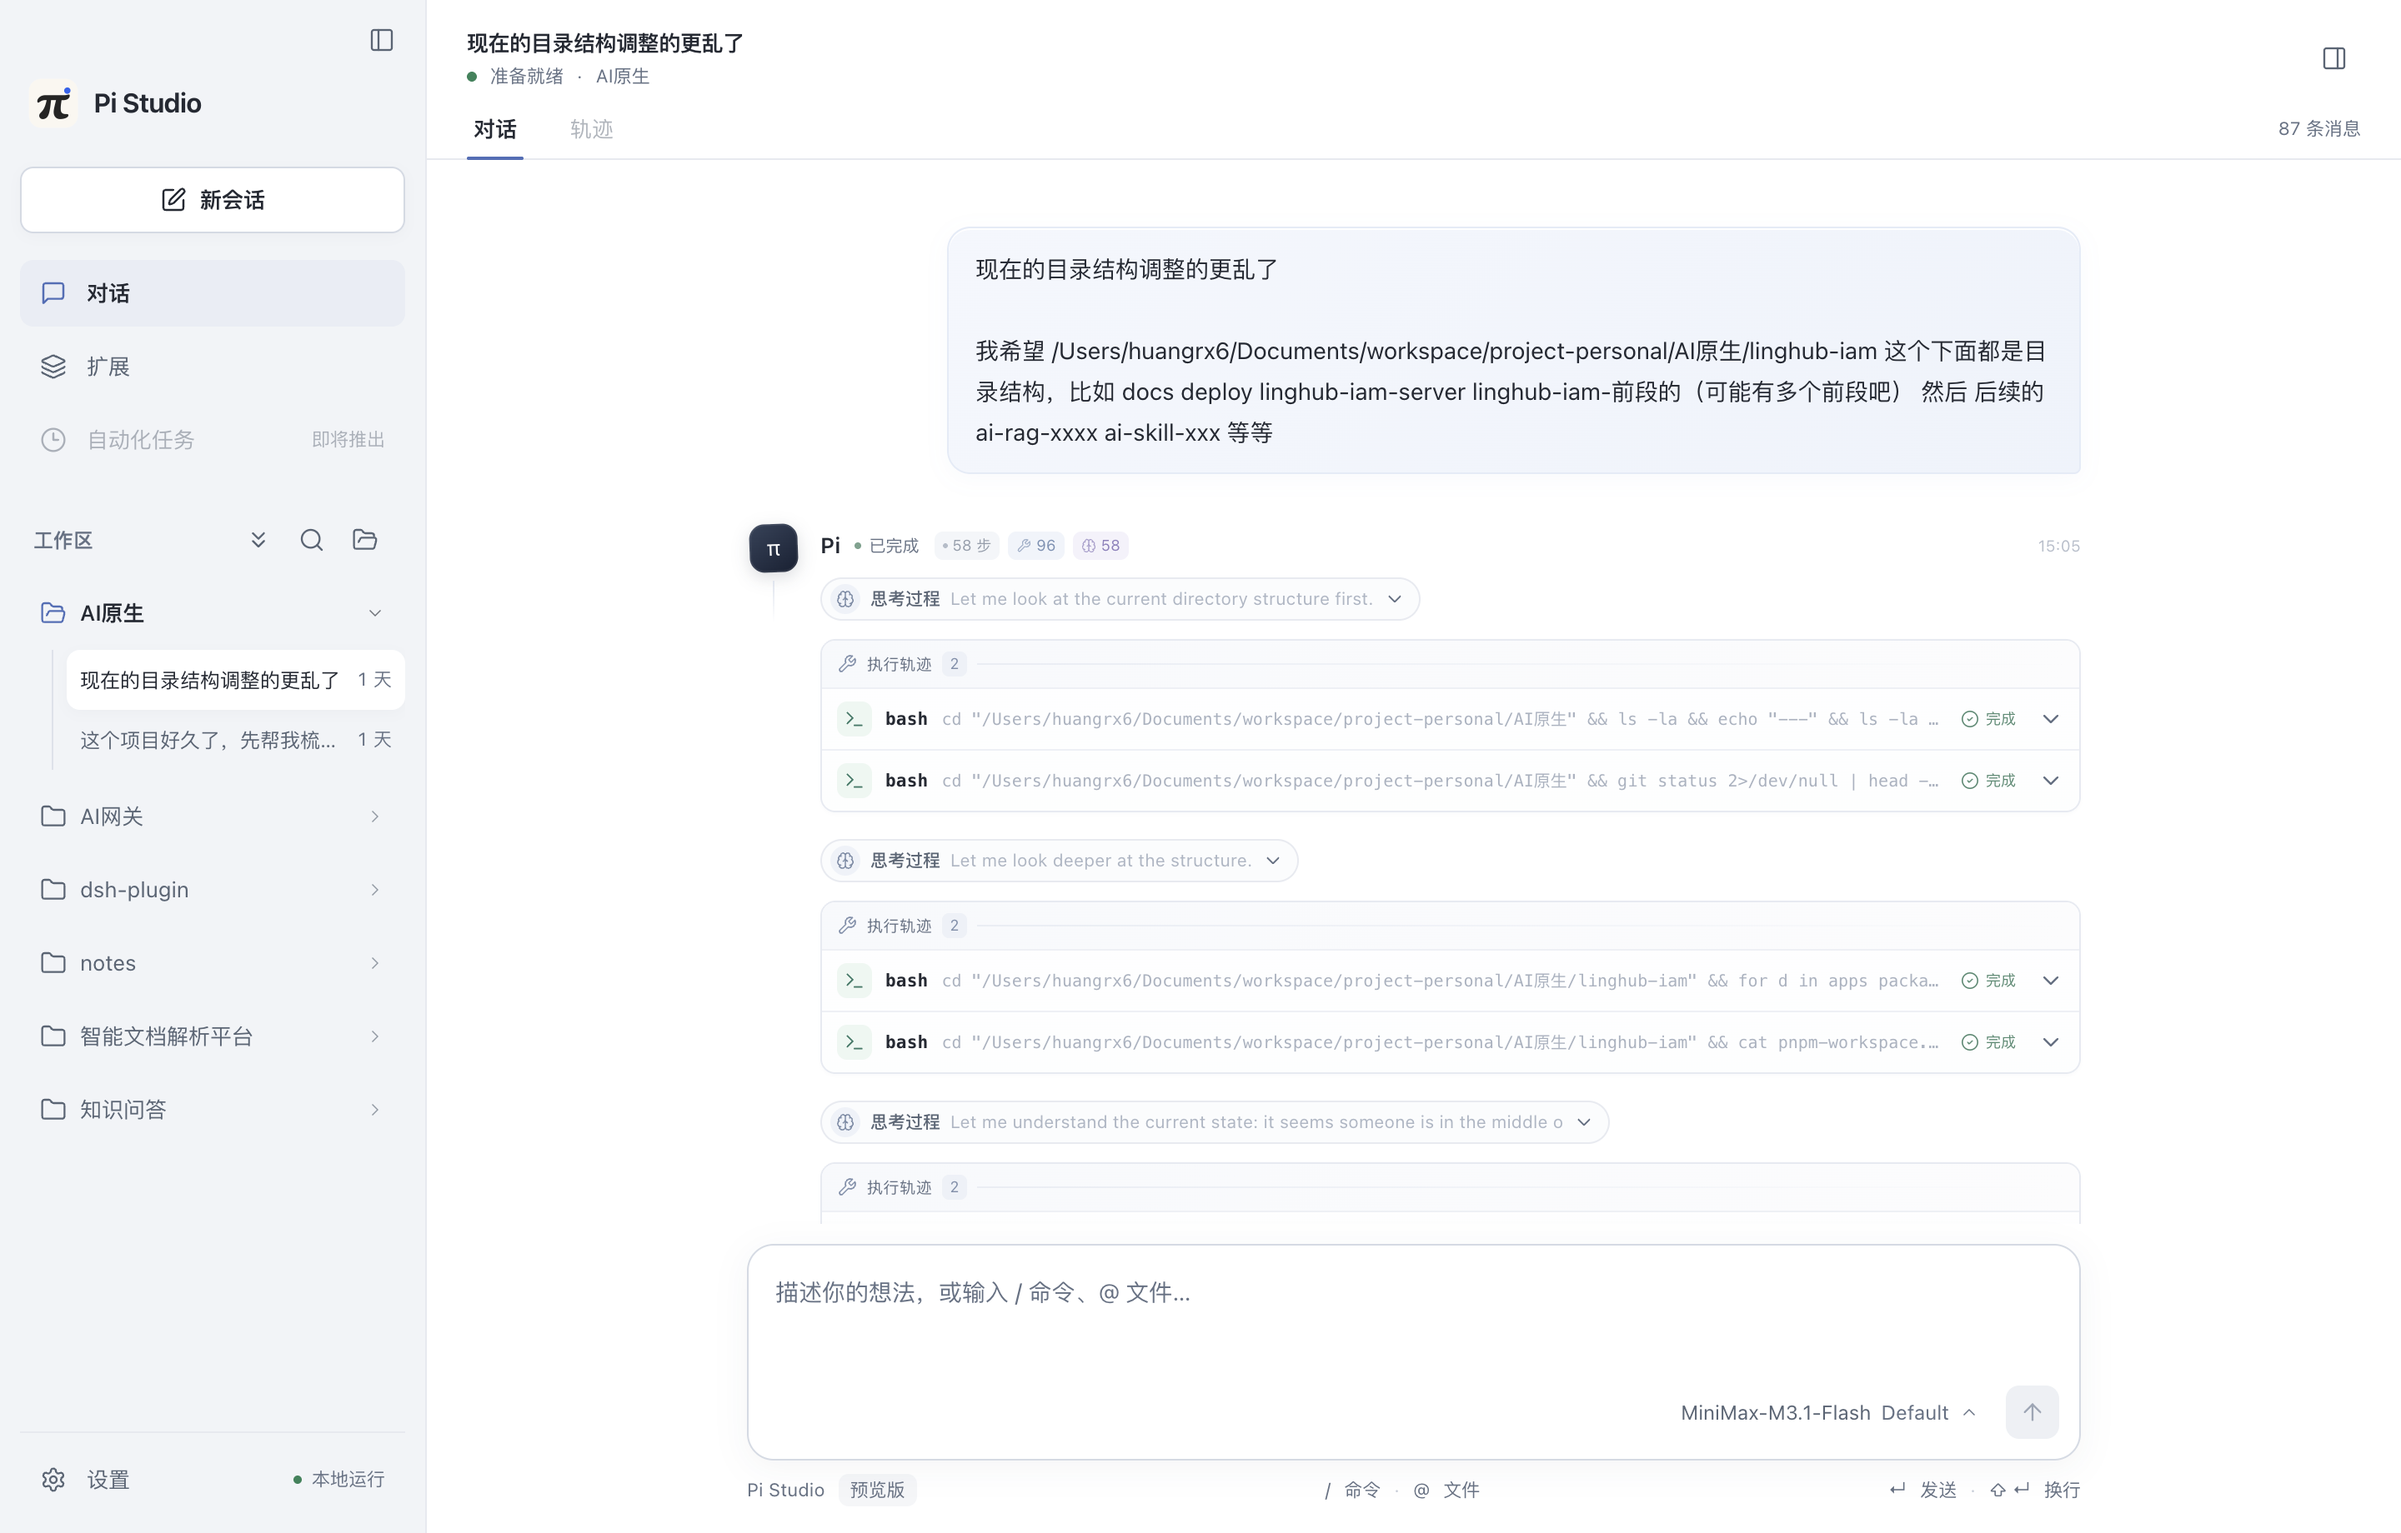
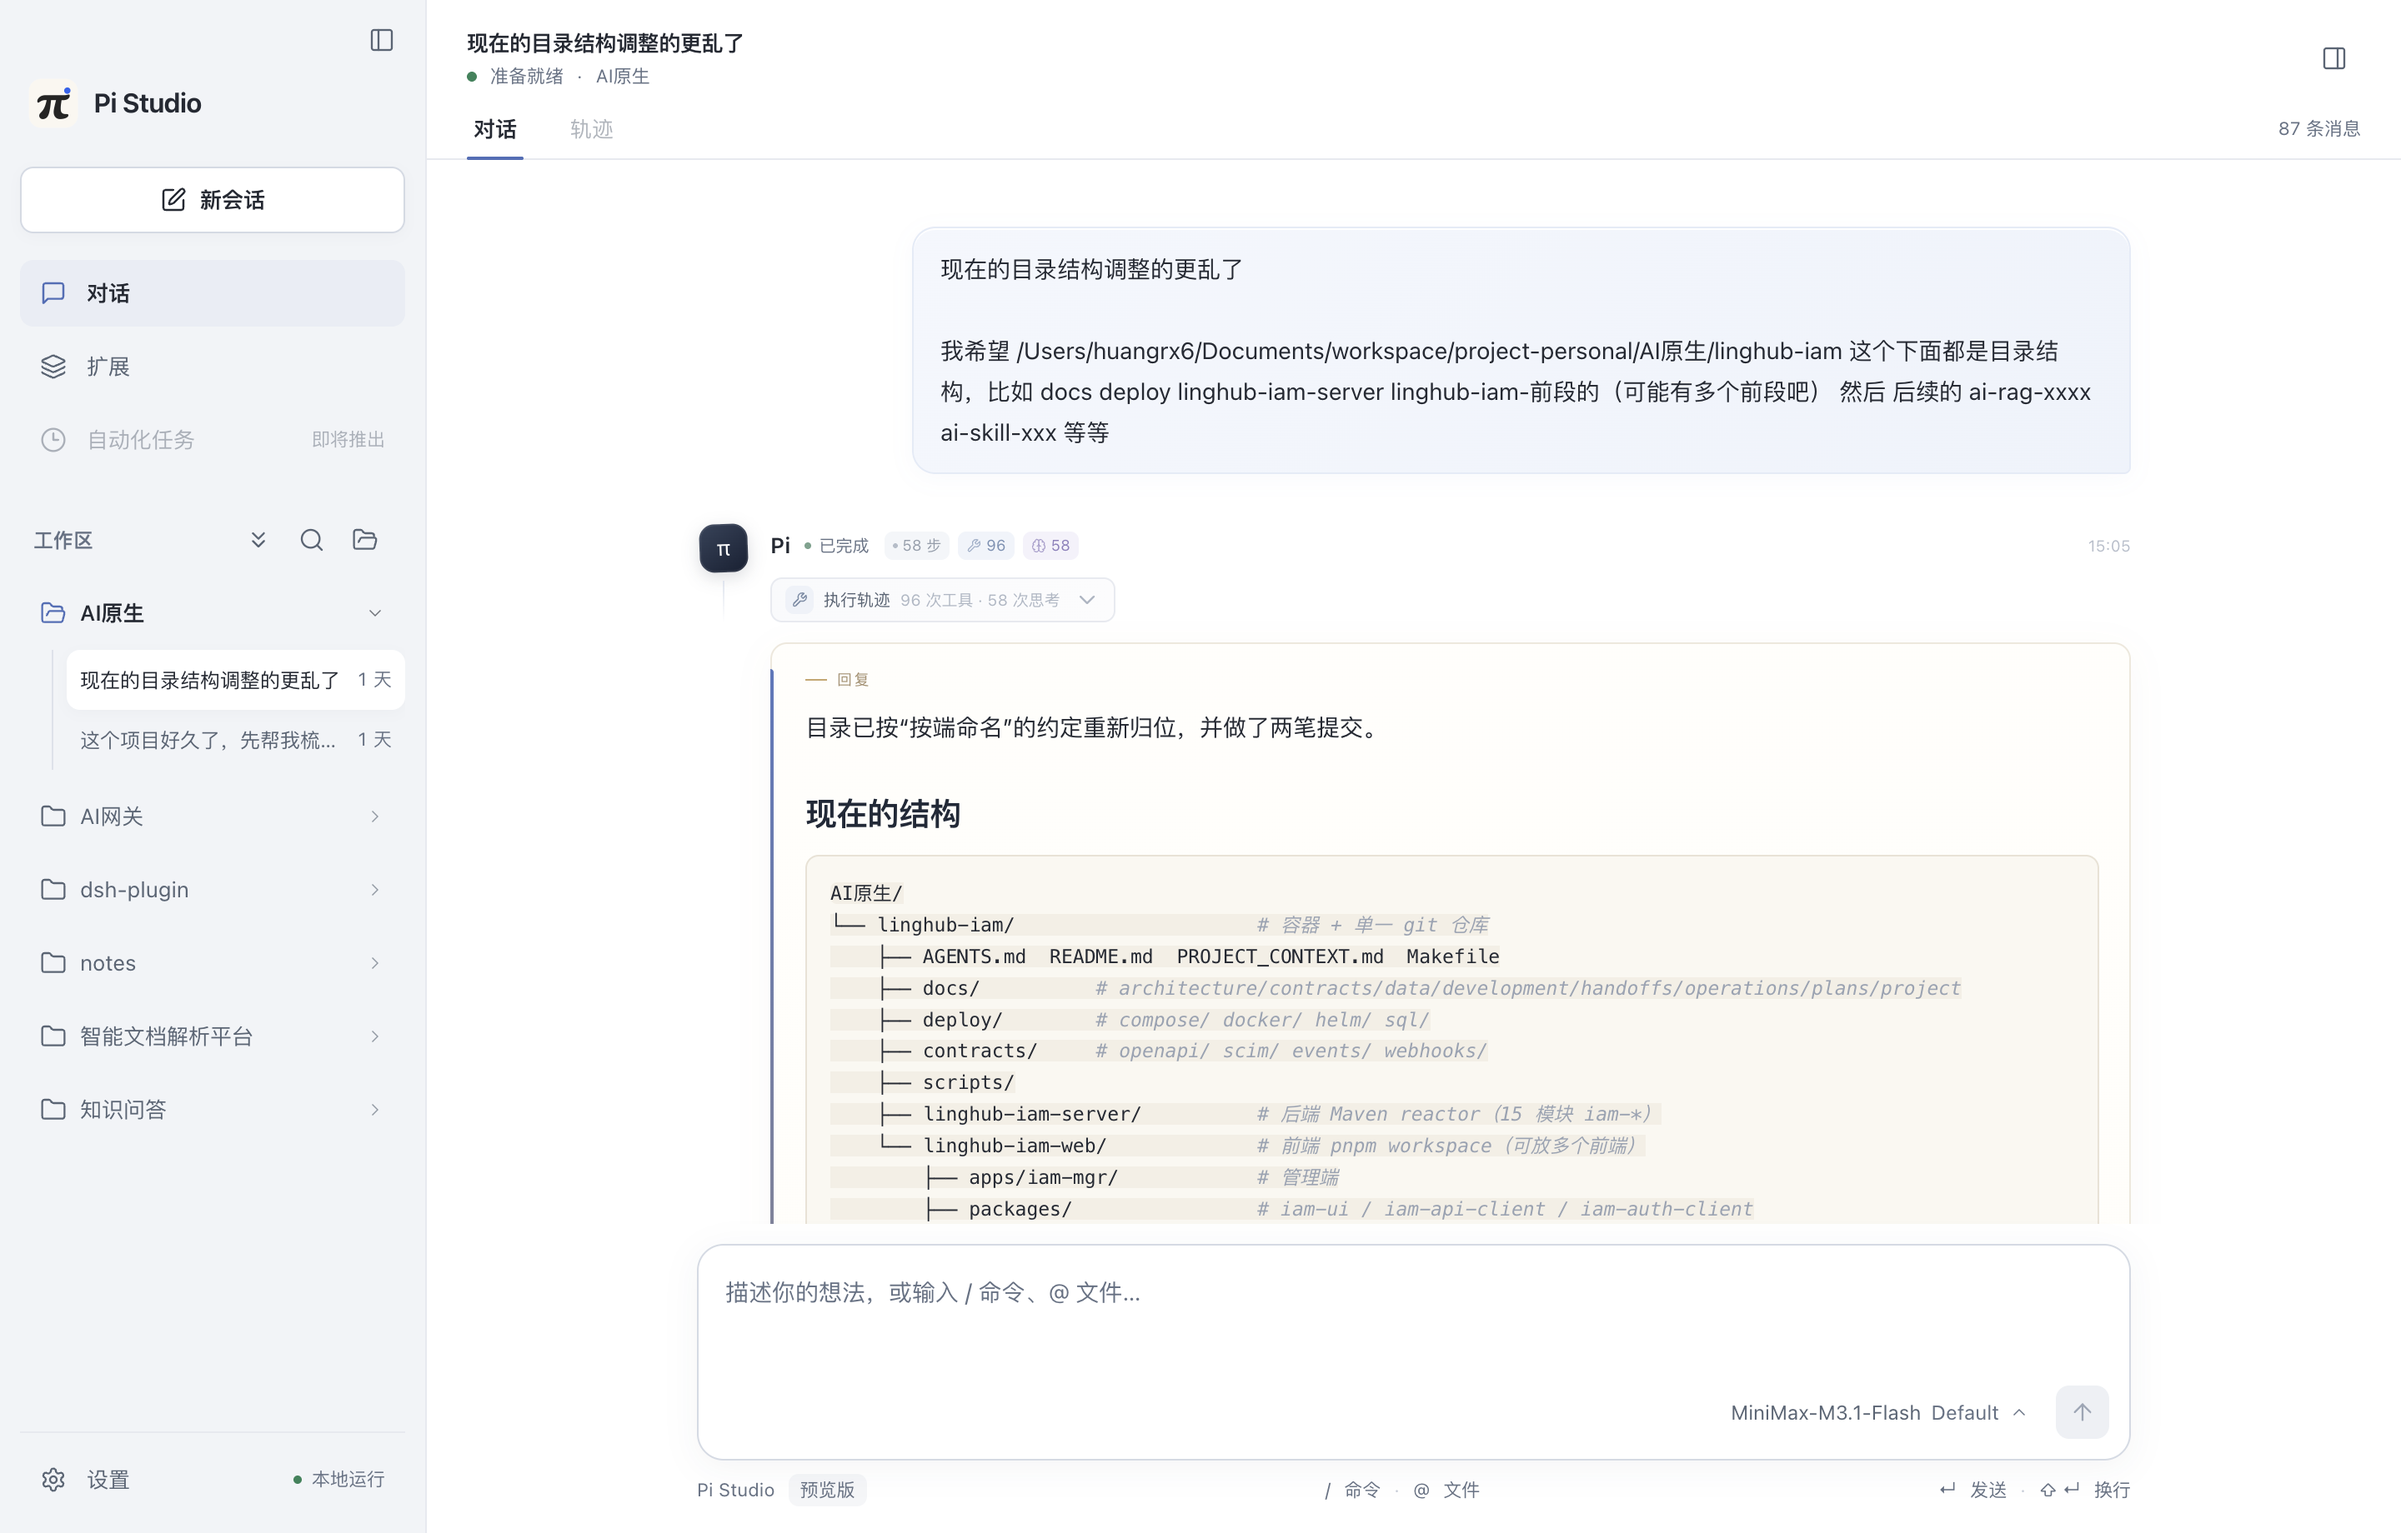
feat(chat): 将运行过程折叠为轨迹与回复卡片

diff --git a/web/src/components/ChatMessage.tsx b/web/src/components/ChatMessage.tsx
@@ -1,3 +1,4 @@
+import { useEffect, useState } from 'react';
 import { Brain, ChevronDown, CircleCheck, CircleX, FileText, LoaderCircle, Pencil, Search, Terminal, Wrench } from 'lucide-react';
 import type { ChatMessage, ContentBlock, ToolCallBlock } from '../chat-types';
 import { Markdown } from './Markdown';
@@ -58,13 +59,6 @@ function ToolCall({ call, result, busy }: { call: ToolCallBlock; result?: ChatMe
   </details>;
 }
 
-function ToolCluster({ calls, toolResults, busy }: { calls: ToolCallBlock[]; toolResults: Map<string, ChatMessage>; busy: boolean }) {
-  return <div className={`tool-cluster ${calls.length === 1 ? 'is-single' : ''}`}>
-    {calls.length > 1 && <div className="tool-cluster-head"><span className="tool-cluster-symbol"><Wrench /></span><span>执行轨迹</span><span className="tool-cluster-count">{calls.length}</span><span className="tool-cluster-line" /></div>}
-    <div className="tool-cluster-body">{calls.map((call) => <ToolCall key={call.id} call={call} result={toolResults.get(call.id)} busy={busy} />)}</div>
-  </div>;
-}
-
 function Thinking({ block }: { block: Extract<ContentBlock, { type: 'thinking' }> }) {
   const preview = block.redacted ? '已隐藏' : block.thinking.replace(/\s+/g, ' ').trim().slice(0, 72);
   return <details className="thinking-block">
@@ -78,31 +72,8 @@ function Thinking({ block }: { block: Extract<ContentBlock, { type: 'thinking' }
   </details>;
 }
 
-function AssistantStep({ message, toolResults, busy }: { message: ChatMessage; toolResults: Map<string, ChatMessage>; busy: boolean }) {
-  const nodes = [];
-  for (let index = 0; index < message.content.length; index += 1) {
-    const block = message.content[index];
-    if (block.type === 'toolCall') {
-      const calls = [block];
-      while (index + 1 < message.content.length && message.content[index + 1].type === 'toolCall') {
-        index += 1;
-        calls.push(message.content[index] as ToolCallBlock);
-      }
-      nodes.push(<ToolCluster key={`tools-${block.id || index}`} calls={calls} toolResults={toolResults} busy={busy} />);
-    } else if (block.type === 'thinking') {
-      nodes.push(<Thinking block={block} key={`thinking-${index}`} />);
-    } else if (block.type === 'text' && block.text) {
-      nodes.push(<Markdown key={`text-${index}`}>{block.text}</Markdown>);
-    } else if (block.type === 'image') {
-      nodes.push(<img className="message-image" key={`image-${index}`} src={`data:${block.mimeType};base64,${block.data}`} alt="" />);
-    }
-  }
-  return <div className="assistant-step">
-    {nodes}
-    {message.streaming && <span className="caret" />}
-    {message.errorMessage && <div className="message-error">{message.errorMessage}</div>}
-  </div>;
-}
+type FlatBlock = { block: ContentBlock; key: string };
+type ActivityEntry = { kind: 'thinking'; block: Extract<ContentBlock, { type: 'thinking' }> } | { kind: 'tool'; call: ToolCallBlock } | { kind: 'text'; text: string };
 
 function formatTime(timestamp?: number): string {
   if (!timestamp) return '';
@@ -110,10 +81,24 @@ function formatTime(timestamp?: number): string {
 }
 
 export function AssistantTurnView({ messages, toolResults, busy }: { messages: ChatMessage[]; toolResults: Map<string, ChatMessage>; busy: boolean }) {
+  const live = busy && messages.some((message) => message.streaming);
+  const [activityOpen, setActivityOpen] = useState(live);
+  useEffect(() => { if (live) setActivityOpen(true); }, [live]);
+  const flat: FlatBlock[] = messages.flatMap((message, messageIndex) => message.content.map((block, blockIndex) => ({ block, key: `${messageIndex}-${blockIndex}` })));
+  let lastActivity = -1;
+  flat.forEach((entry, index) => { if (entry.block.type === 'thinking' || entry.block.type === 'toolCall') lastActivity = index; });
+  const activityBlocks = lastActivity >= 0 ? flat.slice(0, lastActivity + 1) : [];
+  const responseBlocks = lastActivity >= 0 ? flat.slice(lastActivity + 1) : flat;
+  const activity: ActivityEntry[] = activityBlocks.flatMap((entry): ActivityEntry[] => {
+    if (entry.block.type === 'thinking') return [{ kind: 'thinking', block: entry.block }];
+    if (entry.block.type === 'toolCall') return [{ kind: 'tool', call: entry.block }];
+    if (entry.block.type === 'text' && entry.block.text.trim()) return [{ kind: 'text', text: entry.block.text }];
+    return [];
+  });
   const toolCount = messages.reduce((total, message) => total + message.content.filter((block) => block.type === 'toolCall').length, 0);
   const thinkingCount = messages.reduce((total, message) => total + message.content.filter((block) => block.type === 'thinking').length, 0);
-  const live = busy && messages.some((message) => message.streaming);
   const latest = messages[messages.length - 1];
+  const error = messages.find((message) => message.errorMessage)?.errorMessage;
   return <div className={`assistant-turn ${live ? 'is-live' : ''}`}>
     <div className="assistant-turn-rail"><span className="assistant-orb">π</span></div>
     <div className="assistant-turn-main">
@@ -127,7 +112,32 @@ export function AssistantTurnView({ messages, toolResults, busy }: { messages: C
         </span>
         {latest?.timestamp && <time>{formatTime(latest.timestamp)}</time>}
       </div>
-      {messages.map((message, index) => <AssistantStep key={message.timestamp ?? index} message={message} toolResults={toolResults} busy={busy} />)}
+      {activity.length > 0 && <details className="activity-drawer" open={activityOpen} onToggle={(event) => setActivityOpen(event.currentTarget.open)}>
+        <summary>
+          <span className="activity-symbol"><Wrench /></span>
+          <span>执行轨迹</span>
+          <span className="activity-summary">{toolCount} 次工具 · {thinkingCount} 次思考</span>
+          <ChevronDown className="activity-chevron" />
+        </summary>
+        {activityOpen && <div className="activity-log">
+          {activity.map((entry, index) => entry.kind === 'tool'
+            ? <ToolCall key={`tool-${entry.call.id}-${index}`} call={entry.call} result={toolResults.get(entry.call.id)} busy={busy} />
+            : entry.kind === 'thinking'
+              ? <Thinking key={`thinking-${index}`} block={entry.block} />
+              : <div className="activity-note" key={`note-${index}`}><Markdown>{entry.text}</Markdown></div>)}
+        </div>}
+      </details>}
+      {responseBlocks.length > 0 && <div className="assistant-response">
+        {lastActivity >= 0 && <div className="response-kicker">回复</div>}
+        {responseBlocks.map((entry) => entry.block.type === 'text' && entry.block.text
+          ? <Markdown key={entry.key}>{entry.block.text}</Markdown>
+          : entry.block.type === 'image'
+            ? <img className="message-image" key={entry.key} src={`data:${entry.block.mimeType};base64,${entry.block.data}`} alt="" />
+            : null)}
+        {live && <span className="caret" />}
+      </div>}
+      {!live && responseBlocks.length === 0 && error && <div className="message-error">{error}</div>}
+      {live && responseBlocks.length === 0 && <span className="caret" />}
     </div>
   </div>;
 }

diff --git a/web/src/app.css b/web/src/app.css
@@ -1047,3 +1047,39 @@ body *::-webkit-scrollbar-corner { background: transparent; }
 .tool-call.is-running .tool-call-status svg { animation: rotate 1s linear infinite; }
 @keyframes orb-breathe { 0%, 100% { opacity: .2; transform: scale(.96); } 50% { opacity: .8; transform: scale(1.06); } }
 @media (prefers-reduced-motion: reduce) { .assistant-turn.is-live .assistant-orb::after { animation: none; } }
+
+/* Run log + warm reply sheet: activity is a compact aside, the answer is the artifact. */
+.activity-drawer { margin: 4px 0 12px; }
+.activity-drawer > summary { display: inline-flex; align-items: center; gap: 6px; min-height: 27px; padding: 3px 8px; border: 1px solid #e7eaf0; border-radius: 7px; background: linear-gradient(90deg, #f9fafc, #fcfcfd); color: var(--muted); font-size: 10px; cursor: pointer; list-style: none; transition: border-color var(--transition), background var(--transition); }
+.activity-drawer > summary::-webkit-details-marker { display: none; }
+.activity-drawer > summary:hover { border-color: #d8dfeb; background: #f6f8fb; }
+.activity-symbol { display: grid; place-items: center; width: 17px; height: 17px; border-radius: 5px; color: #7b8da7; background: #eef2f8; }
+.activity-symbol svg { width: 10px; height: 10px; }
+.activity-summary { color: #aeb7c4; font-size: 9.5px; }
+.activity-chevron { width: 12px; height: 12px; margin-left: 2px; color: #aeb7c4; transition: transform var(--transition); }
+.activity-drawer[open] > summary { border-color: #e3e7ee; border-radius: 7px 7px 0 0; background: #fbfcfd; }
+.activity-drawer[open] .activity-chevron { transform: rotate(180deg); }
+.activity-log { position: relative; margin: 0; padding: 5px 0 3px 15px; border: 1px solid #e7eaf0; border-top: 0; border-radius: 0 0 7px 7px; background: #fcfcfd; }
+.activity-log::before { content: ''; position: absolute; left: 7px; top: 12px; bottom: 12px; width: 1px; background: linear-gradient(180deg, #dfe5ee, #eef1f5); }
+.activity-log > * { position: relative; }
+.activity-log .thinking-block { margin: 5px 7px 7px; }
+.activity-log .thinking-block summary { background: #fff; }
+.activity-log .tool-call { margin: 0 7px; border: 0; border-top: 1px solid #eef0f4; border-radius: 0; background: transparent; box-shadow: none; }
+.activity-log .tool-call:first-of-type { border-top: 0; }
+.activity-log .tool-call summary { min-height: 34px; padding: 0 3px; }
+.activity-log .tool-call summary:hover { background: #f6f8fb; }
+.activity-log .tool-call-body { border-top-color: #eef0f4; }
+.activity-note { padding: 4px 7px 6px; color: var(--muted); font-size: var(--text-sm); }
+.activity-note::before { content: ''; position: absolute; left: -10px; top: 13px; width: 4px; height: 4px; border-radius: 50%; background: #c3cbd7; }
+.activity-note .markdown { color: var(--muted); font-size: var(--text-sm); line-height: 1.75; }
+.activity-note .markdown p { margin-bottom: 5px; }
+.assistant-response { position: relative; margin: 10px 0 0; padding: 15px 18px 17px 20px; border: 1px solid #eee8dc; border-radius: 10px; background: linear-gradient(180deg, #fffefb 0%, #fffdf8 100%); box-shadow: 0 5px 22px rgb(112 88 42 / 4%); }
+.assistant-response::before { content: ''; position: absolute; left: -1px; top: 15px; bottom: 15px; width: 2px; border-radius: 0 2px 2px 0; background: linear-gradient(180deg, #5977bd, #c89a5c); }
+.assistant-response .markdown { font-size: 14px; line-height: 1.95; }
+.assistant-response .markdown h1, .assistant-response .markdown h2 { color: #202938; }
+.assistant-response .markdown h2 { margin-top: 24px; }
+.assistant-response .markdown pre { border-color: #e9e2d5; background: #fbf8f1; }
+.assistant-response .markdown code { background: #f4efe5; }
+.response-kicker { display: flex; align-items: center; gap: 6px; margin-bottom: 9px; color: #a58e6d; font: 9px var(--mono); letter-spacing: .14em; text-transform: uppercase; }
+.response-kicker::before { content: ''; width: 13px; height: 1px; background: #c9a66d; }
+@media (max-width: 700px) { .assistant-response { padding: 13px 14px; } }
